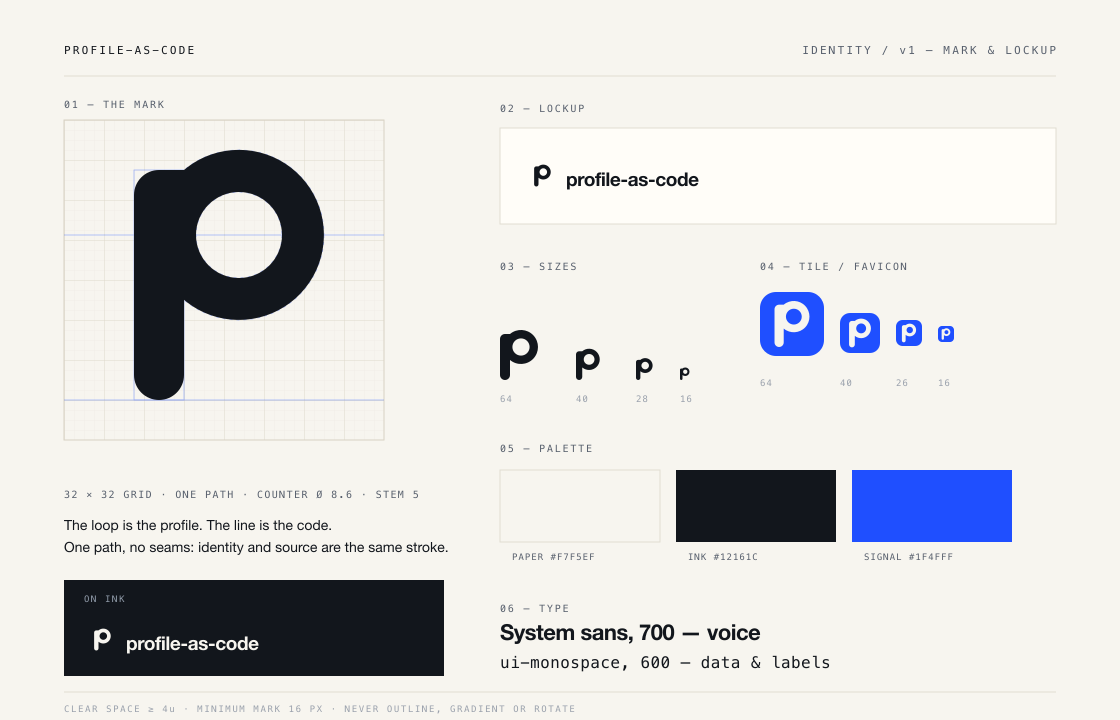
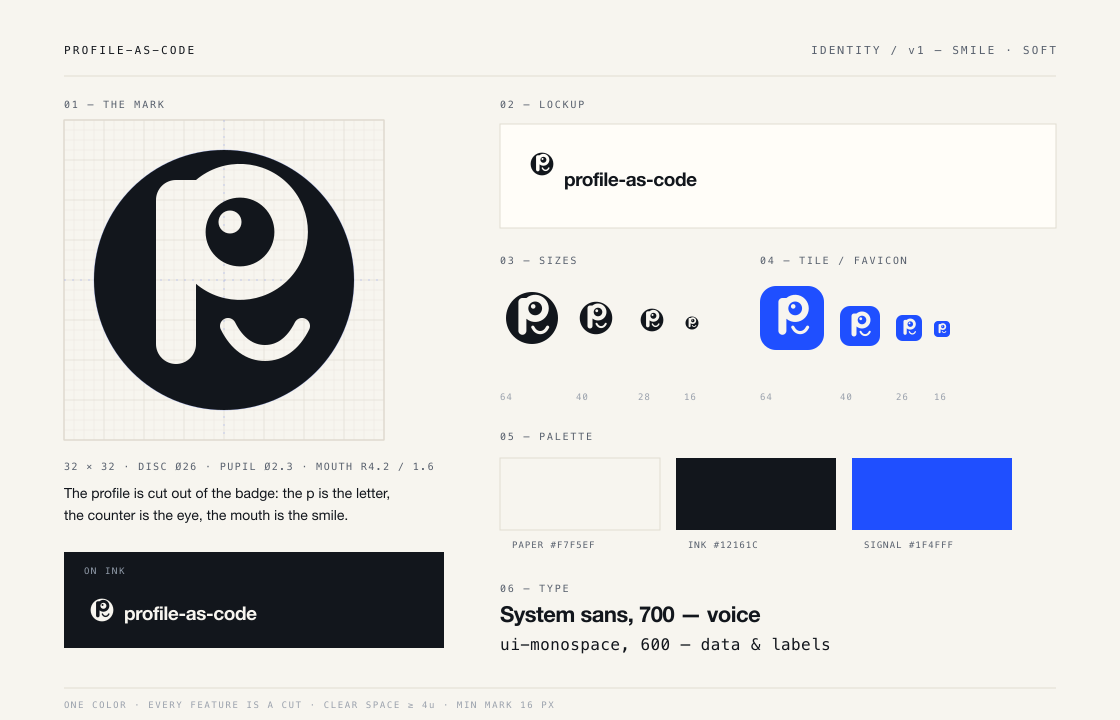
feat(site): adopt Smile · Soft as the brand mark
Replaces the monogram p with the mark chosen on visual preference: a
solid disc with the p cut out of it, the counter as the eye and one
short cut below it as the mouth. One colour; every feature is a knock-
out, so the mark stays a single plate with holes.

- site/brand/: mark (one mask), tile, lockup, identity sheet, and
  BRAND.md v1.0 with the semiotic rationale, construction and rules
- site/favicon.svg: Signal tile with the Paper glyph
- site/index.html: the mark is inlined and inherits currentColor
- site/styles.css: the mark follows ink (not the accent); gap 8

Why this one survives the review: the p is the initial of both names
(profile, pasco), the counter is one eye (a head turned = a profile),
and the mouth is another cut - the same technique as the letter, with
no inlay. The coloured pupil was rejected as an inlay (3.1:1 on ink).

Site gate: `node scripts/site-check/check.mjs` -> PASS.
Link census: in sync.

Session-Id: bf1d8c7d-d21a-494b-96bf-bcd3c0cf049b
Session-Name: brand-mark
Models: deepseek-flash
Impact: none

diff --git a/site/index.html b/site/index.html
@@ -24,7 +24,15 @@
     <div class="wrap header-inner">
       <a class="brand" href="./" aria-label="profile-as-code — home">
         <svg class="mark" width="28" height="28" viewBox="0 0 32 32" aria-hidden="true" focusable="false">
-          <path fill="currentColor" fill-rule="evenodd" d="M7 7.5A2.5 2.5 0 0 1 9.5 5H12A8.5 8.5 0 1 1 12 17.98V25.5A2.5 2.5 0 0 1 7 25.5ZM17.5 7.2a4.3 4.3 0 1 0 0 8.6 4.3 4.3 0 1 0 0-8.6Z"/>
+          <defs>
+            <mask id="pasco-cut">
+              <rect width="32" height="32" fill="#fff"/>
+              <path fill="#000" fill-rule="evenodd" d="M9.2 8A2 2 0 0 1 11.2 6H13.2A6.8 6.8 0 1 1 13.2 16.384V22.4A2 2 0 0 1 9.2 22.4Z M17.6 7.76a3.44 3.44 0 1 0 0 6.88 3.44 3.44 0 1 0 0-6.88Z"/>
+              <circle cx="16.6" cy="10.2" r="1.15" fill="#000"/>
+              <path d="M16.4 20.6c.9 1.8 2.2 2.7 3.7 2.7s2.8-.9 3.7-2.7" fill="none" stroke="#000" stroke-width="1.6" stroke-linecap="round"/>
+            </mask>
+          </defs>
+          <circle cx="16" cy="16" r="13" fill="currentColor" mask="url(#pasco-cut)"/>
         </svg>
         <span>profile-as-code</span>
       </a>

diff --git a/site/styles.css b/site/styles.css
@@ -140,7 +140,7 @@ code {
 .brand {
   display: inline-flex;
   align-items: center;
-  gap: 6px;
+  gap: 8px;
   color: var(--ink);
   text-decoration: none;
   font-weight: 680;
@@ -148,7 +148,6 @@ code {
 }
 
 .mark {
-  color: var(--accent);
   flex: none;
 }
 

diff --git a/site/brand/BRAND.md b/site/brand/BRAND.md
@@ -1,117 +1,148 @@
 # profile-as-code — identity
 
-The mark, the lockup, and the two type voices. This is the source of truth for the
-project page and the favicon.
+**Status:** v1.0, ratified 2026-10-21. **Covers:** the mark, the lockup, the tile,
+colour, type and usage. **Does not cover:** social cards, README banners, CLI output.
+`as_of: 2026-10-21`.
 
-**Covers:** the mark (SVG), the horizontal lockup, the favicon tile, colour and type
-usage. **Does not cover:** social cards, the npm/README banner, or the CLI's terminal
-output. `as_of: 2026-10-20`.
+## 1. The decision
 
-## Direction — “Loop & Line”
+The mark is **Smile · Soft**: a solid disc with a lowercase `p` cut out of it; the
+counter of the p is the eye, one short cut below it is the mouth.
 
-One closed loop resting on one straight line. No frame, no badge, no illustration:
-the mark is a single filled path, and everything it means is carried by proportion and
-counter-space. The loop is a human shape — a cycle, a person, a profile that is
-maintained rather than finished. The line is the code it is written on. They meet
-without a seam, because the claim of the product is that the profile and its source are
-the same artefact seen at two resolutions.
+It was chosen on 2026-10-21 by three readers on visual preference alone (the author and
+two reviewers), after the monogram-only p and the typographic directions had been drawn
+and compared. The semiotic review in §2–§5 is the test that decision has to survive; it
+does:
 
-Colour is ink on paper, with a single electric signal. There are no gradients, no
-shadows, no second accent: the blue appears once per surface, on the mark or on one
-action, never both. A brand that promises one source of truth cannot afford a palette
-that says two.
+- it keeps the letter that names the tool;
+- it adds one trait, not a second shape;
+- every feature is a cut, so the mark stays one colour;
+- the face is the shortest way to say “profile” without drawing a person.
 
-The drawing lives on a 32-unit grid and is specified in units, not pixels, so it holds
-from 16 px to a 320 px construction sheet. Weight is constant: the counter is wide
-enough to survive as a dot at favicon size, and the stem keeps a stable spine when the
-loop is scaled down. Nothing is nudged by eye after the fact; every node sits on a half
-unit and the arcs are tangent by construction.
+## 2. The sign, in three registers
 
-The composition is deliberately asymmetric: mass sits in the loop, the descender gives
-the mark a foot, and the wordmark carries the width. The mark never competes with the
-name — it is smaller, quieter, and separated by one constant gap. Clear space is
-generous because the form is simple; crowding it would make it look accidental.
+| Register | What it is |
+|---|---|
+| **Symbol** | the `p` = *profile*, *pasco* — a convention: the initial |
+| **Icon** | the counter = an eye; the disc = a head / avatar; the p = a head in profile |
+| **Index** | the disc = a badge or seal (an object that certifies); the cut = an inscription; the pupil = a gaze |
 
-This is the part that has to look laboured over even though it is reduced: the join
-between bowl and stem has no visible step, the counter is a true circle rather than an
-optical oval, and the lockup is set once, at one weight, at one tracking. The reference
-is structural, not pictorial: the p is the first letter of *profile* and of `pasco`; the
-loop is the profile, the line is the code, and because both are one path, there is one
-source. Someone who uses the CLI should feel it; someone who does not should simply see
-a confident mark.
+A logo usually works in one register. This one works in three at once, which is why it
+survives scaling: a reader who knows the product sees the letter; a reader who does not
+sees a face; both see the badge shape that every avatar already uses.
 
-## The mark
+## 3. The name is arbitrary; the mark motivates it
+
+`pasco` was not coined as an acronym. The bin was renamed `pac` → `pasco` because an
+unrelated npm package already shipped a `pac` binary (`docs/USER-GUIDE.md`, “Why the
+names”, checked 2026-09-30). Semiotically it is an **arbitrary signifier** — and it
+sounds like a surname (Pascal, Pasco, Pasquale), not like a command. `profile-as-code`
+is the motivated name.
+
+The `p` is the hinge: the initial of both. It is the only element that can serve both
+names without repeating the word, and the only one that can become a face. The chain is
+`p` → *profile* → person → `pasco`: the mark gives the arbitrary name the body it lacks.
+Nothing forces a reader to parse `P·AS·CO`; the mark does not depend on that reading.
+
+## 4. One eye is a profile
+
+A frontal face has two eyes. One eye, with the mouth moved to the side, is a head
+turned: a **profile** — the portrait and the professional summary are the same word.
+That fixes two constraints: never add a second eye, and keep the mouth off-centre, at
+the side, not in the middle.
+
+## 5. Every feature is a cut
+
+The mark is one plate with holes: the p, the pupil and the mouth are all knockouts of
+the disc. No inlay, no second ink, no gradient, no outline. That is why the coloured
+pupil was rejected at the final step: an inlay breaks the technique for a 2 px accent,
+and on the ink disc it sat at ≈3.1:1 — just over the 3:1 floor.
+
+The source uses an SVG `mask`; it is the only non-path primitive in the asset. Flatten
+it for print if the pipeline does not support masks (Illustrator/Figma “flatten”, or
+`rsvg-convert`).
+
+## 6. Construction
 
 | Property | Value |
 |---|---|
 | Artboard | 32 × 32 units |
-| Path | one path, `fill-rule="evenodd"` |
-| Stem | 5 units wide, `x 7 → 12`, `y 5 → 28`, full-radius foot |
-| Bowl | circle Ø 17 (r 8.5) at `(17.5, 11.5)` |
-| Counter | circle Ø 8.6 (r 4.3), same centre |
-| Stroke | 4.2 units at the bowl, 5 at the stem |
-| Bounding box | 19 × 25 units (`x 7 → 26`, `y 3 → 28`) |
-| Minimum size | 16 px (the counter still reads as a dot) |
+| Disc | circle Ø 26 (r 13) at `(16, 16)` |
+| p | stem 4 wide, bowl Ø 13.6 (r 6.8), counter Ø 6.88 (r 3.44) |
+| p bounding box | 16.1 × 17.9 (`x 9.2 → 25.3`, `y 4.5 → 22.4`) |
+| Pupil | Ø 2.3 at `(16.6, 10.2)` |
+| Mouth | arc r 4.2, 145° → 35°, stroke 1.6, round caps, centre `(20.1, 17.9)` |
+| Minimum size | 16 px; the face reads from 32 px |
 | Clear space | ≥ 4 units on every side |
 
-The mark is an SVG source, never a PNG. It inherits `currentColor`, so it takes the
-accent in the header and paper/ink wherever it is placed.
+The mark is an SVG source, never a PNG, and it inherits `currentColor`.
 
-## The lockup
+## 7. Lockup
 
-Mark 28 px, wordmark 19 px, gap 6 px, optically baseline-aligned — see
-`lockup.svg`. In HTML the wordmark is live text, not outlines: it keeps the page
-selectable, searchable and translatable. The accessible name is always
-`profile-as-code`; the mark itself is decorative (`aria-hidden="true"`) when the name is
+Mark 28 px, wordmark 19 px, gap 6 px — about 10 px visual, because the disc’s
+sidebearing does the rest. In HTML the wordmark is live text, not outlines: it keeps the
+page selectable, searchable and translatable. The accessible name is always
+`profile-as-code`; the mark is decorative (`aria-hidden="true"`) when the name is
 already in the link.
 
-## Colour
+## 8. Colour
 
 | Token | Hex | Use |
 |---|---|---|
-| Paper | `#F7F5EF` | page ground, glyph on the tile |
-| Ink | `#12161C` | mark, wordmark, body |
-| Signal | `#1F4FFF` | mark in the header, tile ground, one action per screen |
+| Paper | `#F7F5EF` | ground |
+| Ink | `#12161C` | the mark, the wordmark, body |
+| Signal | `#1F4FFF` | the tile, one action per screen |
 
-Dark mode reuses the same three roles with the page tokens already defined in
-`site/styles.css`: the mark takes `--accent` (`#8AB0FF`), the tile keeps Signal.
+The rule: **the mark is ink on paper and paper on ink; Signal never enters the mark.**
+The accent belongs to the tile and to actions. Dark mode reuses the page tokens; the
+mark follows `currentColor`.
 
-## Type
+## 9. Type
 
 Two voices, one family each:
 
 - **Voice** — system sans (`system-ui, -apple-system, "Segoe UI", Roboto, …`), 700 for
-  the wordmark, 780 for the page headline. This is the human register.
-- **Data** — `ui-monospace` for labels, kickers, code and version strings. This is the
-  machine register.
+  the wordmark, 780 for the page headline.
+- **Data** — `ui-monospace` for labels, kickers, code and version strings.
 
-No third face. No italics for emphasis in the identity; emphasis is weight and space.
+No third face. Emphasis is weight and space, never italics.
 
-## Rules
+## 10. Rules
 
-- Do not outline the mark, add a stroke, rotate it, or place it in a circle or a badge.
-- Do not recolour the tile; it is Signal with a Paper glyph, full stop.
+- Do not add a second eye, a nose, eyebrows or teeth.
+- Do not colour the pupil, and do not invert the face: the pupil is always a cut.
+- Do not place the disc in a circle or a badge frame; it is already the badge.
+- Do not scale the mark below 16 px. Below 32 px the face fades to a dot and a dash —
+  that is expected; the tile carries the icon.
+- Do not outline, rotate, add a stroke or a shadow.
 - Do not set the wordmark in another face or re-track it below `-0.03em`.
-- Do not place the monochrome mark on a mid-tone without checking contrast; it is
-  designed for paper or ink.
-- Do not scale the mark below 16 px; use the tile instead.
 
-## Considered and rejected
+## 11. Considered and rejected
 
-- **Three lines in a rounded box** (the previous mark): reads as a list or a form field,
-  and the box does the work instead of the idea.
-- **Fan of lines from a dot**: the “share” glyph, already everywhere.
-- **Brace beside stacked lines**: correctly says “text becomes code”, but at 28 px it
-  reads as an indent control, not as an identity.
+- **Monogram p** (first direction on this branch): clean, but no face and no motivation
+  for the name; superseded.
+- **Drop Cap + eye**: a slab-serif p whose counter becomes an eye; strong at large
+  sizes, but the serifs vanish below 20 px and the face is only an eye.
+- **Pilcrow**: the paragraph mark; literary, but reads as a flag or a microphone at
+  lockup size.
+- **Disc + Signal pupil**: the inlay; lost to the one-colour rule and to ≈3.1:1 on ink.
+- **Brow, Wink, Smile · Open**: the face turns into a cartoon and the letter loses
+  dominance.
+- **Earlier geometric marks** (fan, brace, contours, hash, fingerprint, tag): stock
+  glyphs; drawn and discarded in the exploration round.
 
-## Assets
+## 12. Assets
 
 | File | What it is |
 |---|---|
-| `mark.svg` | the mark, `currentColor`, 32 grid |
-| `mark-tile.svg` | app icon / favicon, Signal tile + Paper glyph |
+| `mark.svg` | the mark, `currentColor`, 32 grid, one mask |
+| `mark-tile.svg` | app icon / favicon: Signal tile, Paper glyph |
 | `lockup.svg` | horizontal lockup (mark + wordmark) |
-| `identity.svg` | construction sheet + sizes + palette + type |
-| `identity.png` | 1120 px render of the sheet for quick review |
+| `identity.svg` | construction sheet, sizes, tile, palette, type |
+| `identity.png` | 1120 px render of the sheet |
 
 `site/favicon.svg` is a copy of `mark-tile.svg`; `site/index.html` inlines `mark.svg`.
+
+## Change log
+
+- **v1.0** — 2026-10-21 — Smile · Soft ratified; supersedes the monogram p.
